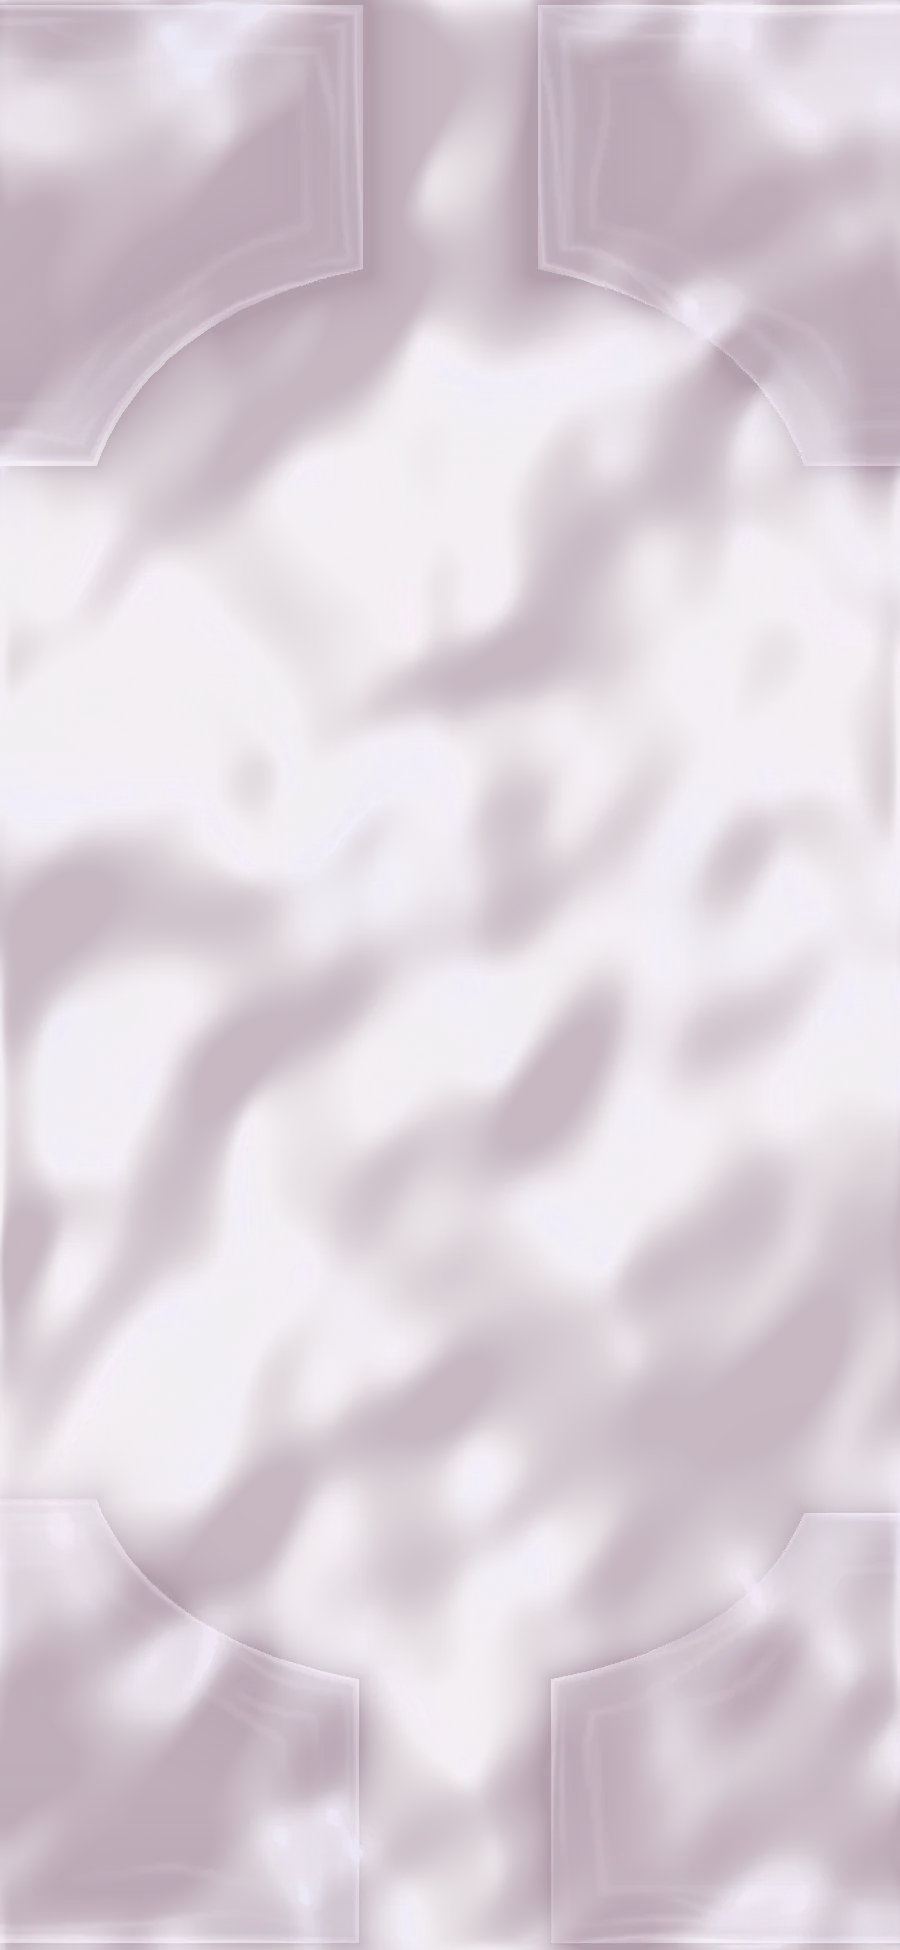
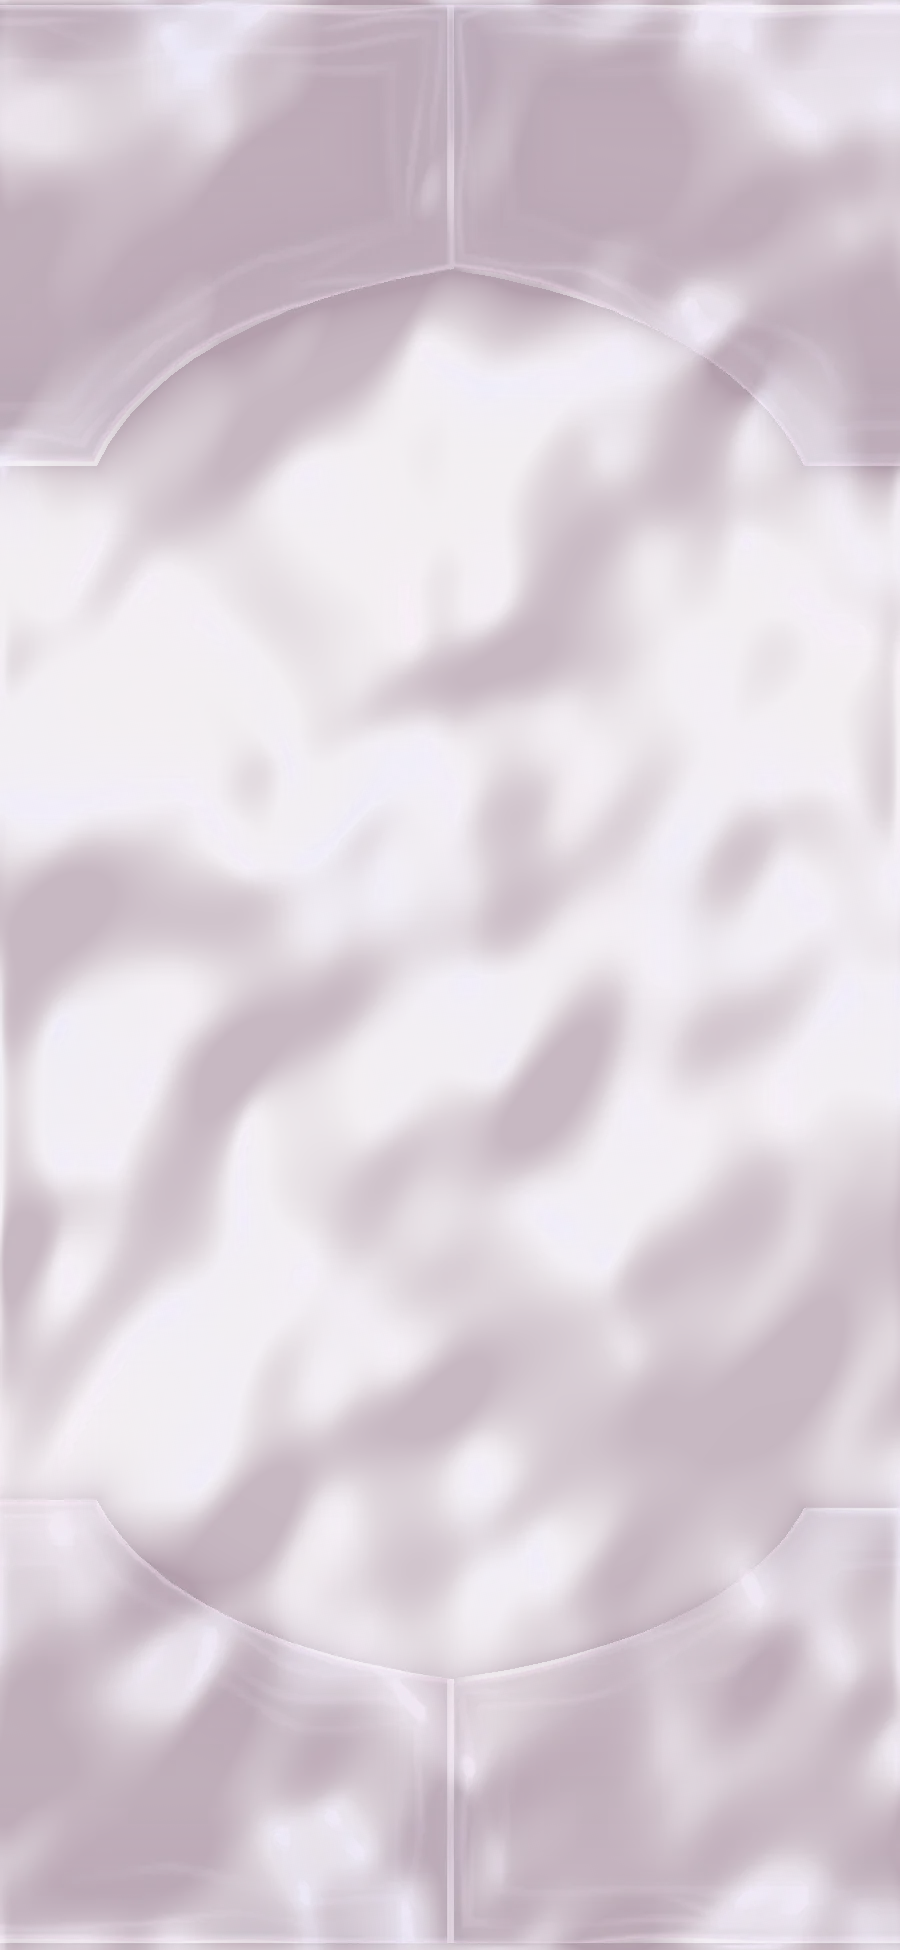
Website: fabric corner folds meet in the centre at top and bottom

Changed region(s): [[0.4667, 0.8308, 0.56, 1.0], [0.4667, 0.0, 0.56, 0.1538], [0.1244, 0.1846, 0.1867, 0.2154]]

diff --git a/Wedding Website/tools/make_assets.py b/Wedding Website/tools/make_assets.py
@@ -447,10 +447,10 @@ def organza_rgba():
         arc = [((1 - u) ** 2 * a0[0] + 2 * u * (1 - u) * c[0] + u * u * a1[0], (1 - u) ** 2 * a0[1] + 2 * u * (1 - u) * c[1] + u * u * a1[1]) for u in np.linspace(0, 1, n)]
         return [(cx - sx * 200, cy - sy * 300), (cx + sx * rx, cy - sy * 300)] + arc + [(cx - sx * 200, cy + sy * ry)]
     FOLDS = [   # (polygon in reference px 780x1580, how dense the doubled cloth is)
-        (_corner(-15, -15, 305, 225, 1, 1), 1.0),          # top-left: curve from the top edge round to the left side
-        (_corner(795, -15, 305, 225, -1, 1), 1.0),         # top-right
-        (_corner(-15, 1595, 300, 205, 1, -1), 0.9),        # bottom-left
-        (_corner(795, 1595, 290, 190, -1, -1), 0.85),      # bottom-right
+        (_corner(-15, -15, 408, 225, 1, 1), 1.0),          # top-left: curve from the top edge round to the left side
+        (_corner(795, -15, 408, 225, -1, 1), 1.0),         # top-right
+        (_corner(-15, 1595, 408, 205, 1, -1), 0.9),        # bottom-left
+        (_corner(795, 1595, 408, 195, -1, -1), 0.85),      # bottom-right
     ]
     fold_layer = np.zeros((H, W), np.float32); fold_edge = np.zeros((H, W), np.float32); fold_shadow = np.zeros((H, W), np.float32)
     for k, (poly, dens) in enumerate(FOLDS):
